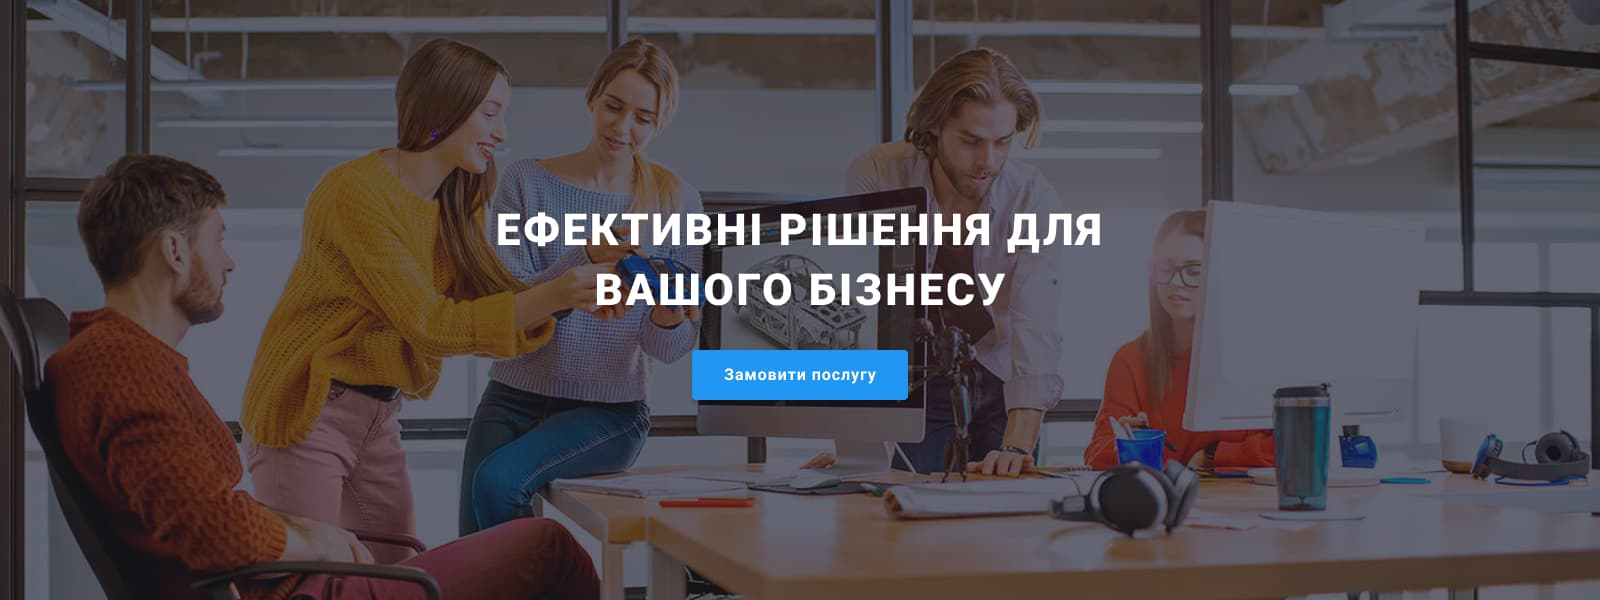
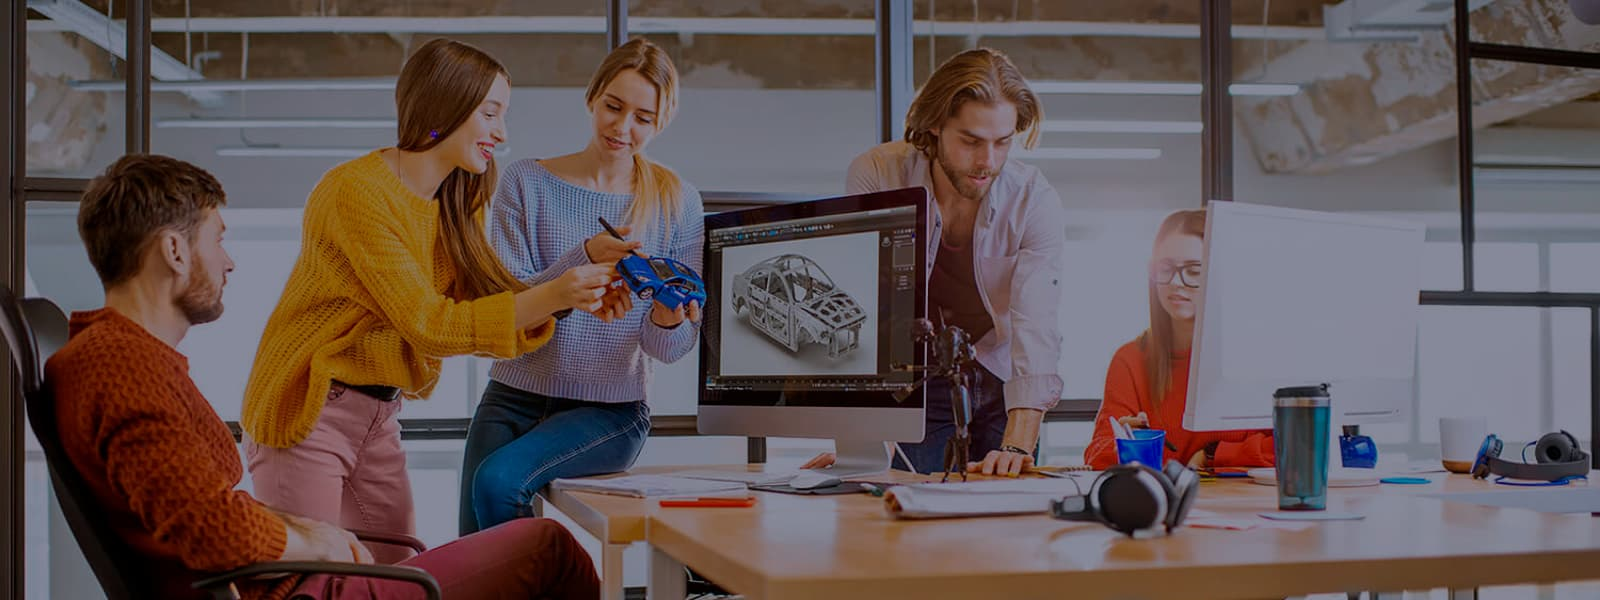
25,01
Commit

diff --git a/css/styles.css b/css/styles.css
@@ -60,8 +60,12 @@ ul {
   color: var(--accent-color);
 }
 .icon-nav {
-  display: block;
-  align-items: center;
+  padding-right: 10px;
+  justify-content: flex-end;
+  
+  
+  
+  
 }
 .list {
   list-style: none;
@@ -126,7 +130,17 @@ ul {
   padding-top: 200px;
   padding-bottom: 200px;
 
-  background-image: url("images\hero.jpg");
+ 
+}
+.container-hero {
+  background-image: linear-gradient(rgba(47, 48, 58, 0.4),rgba(47, 48, 58, 0.4)), url("../images/hero.jpg");
+  margin-left: auto;
+  margin-right: auto;
+  width: 1600px;
+  height: 600px;
+  
+  background-size: cover;
+  background-position: center;
 }
 .hero-title {
   color: var(--accent-color);
@@ -149,10 +163,7 @@ ul {
   background-color: #f5f4fa;
   
 }
-.list-icon {
- 
-
-}
+/*.list-icon {}*/
 .section-title {
   color: #2f303a;
 }
@@ -185,32 +196,26 @@ ul {
   display: flex;
   justify-content: center;
   margin-top: 16px;
-  
-
 }
-.social-list:not(:last-child){
+.social-list:not(:last-child) {
   margin-right: 10px;
 }
 
-
-.social-list-item {
-
-}
 .social-list-link {
   display: flex;
   align-items: center;
   justify-content: center;
   width: 44px;
   height: 44px;
- 
+
   border-radius: 50px;
 }
-.social-list-link:hover .social-list-icon,
-.social-list-link:focus .social-list-icon {
-  fill: var(--accent-color);
+.social-list-link:hover ,
+.social-list-link:focus  {
+  fill: var(--text-color);
 }
 .social-list-icon {
-
+  fill:#afb1b8;
 }
 /*h2*/
 .caption-section {
@@ -311,7 +316,6 @@ ul {
   padding-top: 30px;
   padding-bottom: 30px;
   text-align: center;
- 
 }
 /*footer*/
 .footer {

diff --git a/index.html b/index.html
@@ -41,7 +41,7 @@
   
 
     <main>
-      <section class="hero">
+      <section class="hero container-hero">
         <div class="container">
         <h1 class="hero-title">Ефективні рішення для вашого бізнесу</h1>
         <button type="button" class="btn-primary">Замовити послугу</button>
